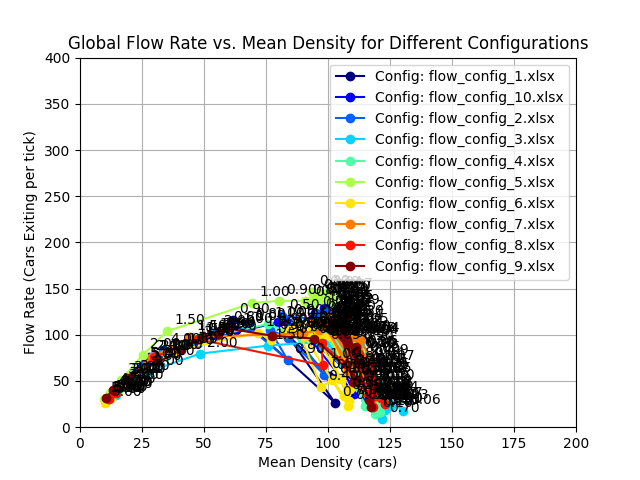
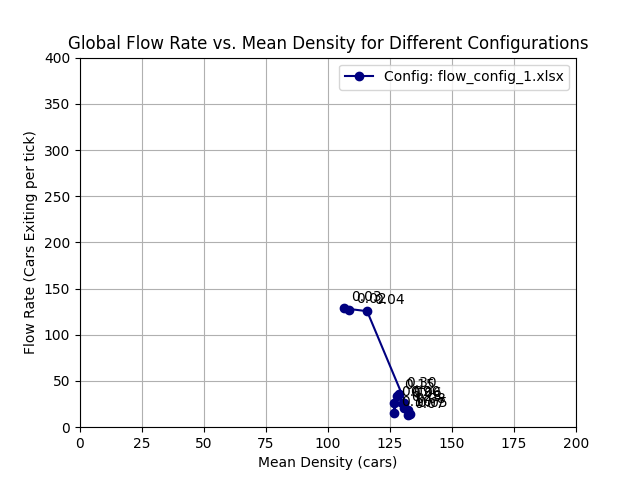
plot imporvements

Changed region(s): [[0.1562, 0.125, 0.9062, 0.9062]]

diff --git a/main.py b/main.py
@@ -80,7 +80,7 @@ def run_simulation_for_multiplier(args):
     intersections, roads, road_extremity_spawners = create_grid_setup(n_rows, m_cols, car_flow_rate=120)
     simulator.initialize(intersections, roads, road_extremity_spawners, config_file=config_file_path, spawn_intervall_multiplier=multiplier)
 
-    max_ticks = 10000
+    max_ticks = 5000
     stability_ticks = 1000
     car_counts = []
     last_car_counts = []
@@ -116,11 +116,12 @@ def run_simulation_for_multiplier(args):
     mean_flow_rate = (np.mean(flow_rates) if flow_rates else 0)*60*60
     mean_exit_flow_rate = (sum(simulator.exit_flow_rate_history)/len(simulator.exit_flow_rate_history))*60*60
     mean_density = np.mean(car_counts) if car_counts else 0
+    average_car_lifetime = simulator.get_average_car_lifetime() if simulator.car_lifetimes else 0
 
     flow_rate = simulator.get_real_entry_flow_rate()*60*60
     
-    print(f"  -> Mean Entry Flow Rate: {flow_rate:.4f}, Mean Exit Flow Rate: {mean_exit_flow_rate:.4f}, Flow Rate: {flow_rate:.4f}, Mean Density: {mean_density:.4f}")
-    return mean_density, mean_exit_flow_rate
+    print(f"  -> Mean Entry Flow Rate: {flow_rate:.4f}, Mean Exit Flow Rate: {mean_exit_flow_rate:.4f}, Flow Rate: {flow_rate:.4f}, Mean Density: {mean_density:.4f}, Average Car Lifetime: {average_car_lifetime:.4f}")
+    return mean_density, mean_exit_flow_rate, average_car_lifetime
 
 def main():
     # --- Experiment Parameters ---
@@ -128,20 +129,27 @@ def main():
     m_cols = 2
 
     # --- Matplotlib Setup ---
-    fig, ax = plt.subplots()
-    ax.set_ylabel("Flow Rate (Cars Exiting per tick)")
-    ax.set_xlabel("Mean Density (cars)")
-    ax.set_title("Global Flow Rate vs. Mean Density for Different Configurations")
-    ax.grid(True)
-    ax.set_xlim(0, 200) # Adjust as needed
-    ax.set_ylim(0, 400) # Adjust as needed
+    fig, ax1 = plt.subplots(figsize=(10, 6)) # Use ax1 for flow rate
+    ax2 = ax1.twinx() # Create a second y-axis for car lifetime
+
+    ax1.set_ylabel("Flow Rate (Cars Exiting per tick)", color='tab:blue')
+    ax1.set_xlabel("Mean Density (cars)")
+    ax1.set_title("Global Flow Rate and Average Car Lifetime vs. Mean Density")
+    ax1.grid(True)
+    ax1.set_xlim(0, 200) # Adjust as needed
+    ax1.set_ylim(0, 400) # Adjust as needed
+    ax1.tick_params(axis='y', labelcolor='tab:blue')
+
+    ax2.set_ylabel("Average Car Lifetime (ticks)", color='tab:red')
+    ax2.set_ylim(0, 10000) # Adjust as needed for car lifetime
+    ax2.tick_params(axis='y', labelcolor='tab:red')
 
     # --- Main Experiment Loop ---
     spawn_multipliers = list(np.arange(5, 2, -1)) + list(np.arange(2, 1, -0.5)) + list(np.arange(1, 0.3, -0.1)) + list(np.arange(0.3, 0.1, -0.05)) + list(np.arange(0.1, 0.01, -0.01))
     #spawn_multipliers = [1, 2, 3]
 
     config_files = [f for f in os.listdir('configs') if f.endswith('.xlsx')]
-    #config_files = ['flow_config_1.xlsx'] # Use a single config for testing
+    config_files = ['flow_config_1.xlsx'] # Use a single config for testing
     colors = plt.cm.jet(np.linspace(0, 1, len(config_files))) # Generate distinct colors
 
     all_simulation_results = [] # List to store all results
@@ -149,7 +157,7 @@ def main():
     try:
         for i, config_file in enumerate(config_files):
             config_file_path = os.path.join('configs', config_file)
-            #config_file_path = "flow_config.xlsx"
+            config_file_path = "flow_config.xlsx"
             print(f"Processing config file: {config_file_path}")
 
             pool_args = [(multiplier, config_file_path, n_rows, m_cols, use_gui) for multiplier in spawn_multipliers]
@@ -161,14 +169,15 @@ def main():
             # Filter out cases where simulation might have failed or resulted in no cars
             valid_results_with_multipliers = []
             for res_idx, res in enumerate(results):
-                if res and (res[0] > 0 or res[1] > 0):
+                if res and (res[0] > 0 or res[1] > 0 or res[2] > 0): # Check all returned values
                     valid_results_with_multipliers.append((spawn_multipliers[res_idx], res))
                     # Store results for saving to file
                     all_simulation_results.append({
                         'config_file': config_file,
                         'multiplier': spawn_multipliers[res_idx],
                         'mean_density': res[0],
-                        'exit_flow_rate': res[1]
+                        'exit_flow_rate': res[1],
+                        'average_car_lifetime': res[2] # Store average car lifetime
                     })
 
             if not valid_results_with_multipliers:
@@ -178,21 +187,28 @@ def main():
             valid_multipliers = [item[0] for item in valid_results_with_multipliers]
             mean_densities = [item[1][0] for item in valid_results_with_multipliers]
             exit_flow_rates = [item[1][1] for item in valid_results_with_multipliers]
+            average_car_lifetimes = [item[1][2] for item in valid_results_with_multipliers] # Unpack average car lifetime
 
-            # Plotting
-            ax.plot(mean_densities, exit_flow_rates, marker='o', linestyle='-', color=colors[i], label=f'Config: {config_file}')
+            # Plotting on ax1 (Flow Rate)
+            ax1.plot(mean_densities, exit_flow_rates, marker='o', linestyle='-', color='tab:blue', label=f'Flow Rate - Config: {config_file}')
             for j, multiplier in enumerate(valid_multipliers):
-                ax.annotate(f'{multiplier:.2f}', (mean_densities[j], exit_flow_rates[j]), xytext=(5, 5), textcoords='offset points')
+                ax1.annotate(f'{multiplier:.2f}', (mean_densities[j], exit_flow_rates[j]), xytext=(5, 5), textcoords='offset points', color='tab:blue')
+
+            # Plotting on ax2 (Average Car Lifetime)
+            ax2.plot(mean_densities, average_car_lifetimes, marker='x', linestyle='--', color='tab:red', label=f'Avg Lifetime - Config: {config_file}')
+            for j, multiplier in enumerate(valid_multipliers):
+                ax2.annotate(f'{multiplier:.2f}', (mean_densities[j], average_car_lifetimes[j]), xytext=(5, -15), textcoords='offset points', color='tab:red')
+
 
         print("Experiment finished.")
-        plt.legend()
-        plt.savefig("flow_vs_density_plot_with_multipliers.png")
+        fig.legend(loc="upper left", bbox_to_anchor=(0.1, 0.9)) # Adjust legend position
+        plt.savefig("flow_lifetime_vs_density_plot.png") # New filename for the combined plot
         plt.show()
 
         # Save all simulation results to a CSV file
         results_file_path = "simulation_results.csv"
         with open(results_file_path, 'w', newline='') as csvfile:
-            fieldnames = ['config_file', 'multiplier', 'mean_density', 'exit_flow_rate']
+            fieldnames = ['config_file', 'multiplier', 'mean_density', 'exit_flow_rate', 'average_car_lifetime'] # Add new field
             writer = csv.DictWriter(csvfile, fieldnames=fieldnames)
 
             writer.writeheader()

diff --git a/Simulator.py b/Simulator.py
@@ -60,7 +60,7 @@ class Simulator:
         self.total_cars_spawned_count = 0
         self.total_cars_exited = 0
 
-        self.flow_rate_time_delta = 240
+        self.flow_rate_time_delta = 120
         self.cars_exited_tick_during_delta = []
         self.last_exit_flow_rate = 0
         self.last_exited_car_tick = 0
@@ -72,7 +72,7 @@ class Simulator:
         self.car_density_history = []
         self.exit_flow_rate_history = []
 
-    def get_global_flow_rate(self):
+    def get_average_car_lifetime(self):
         if not self.car_lifetimes:
             return 0
         return sum(self.car_lifetimes) / len(self.car_lifetimes)
